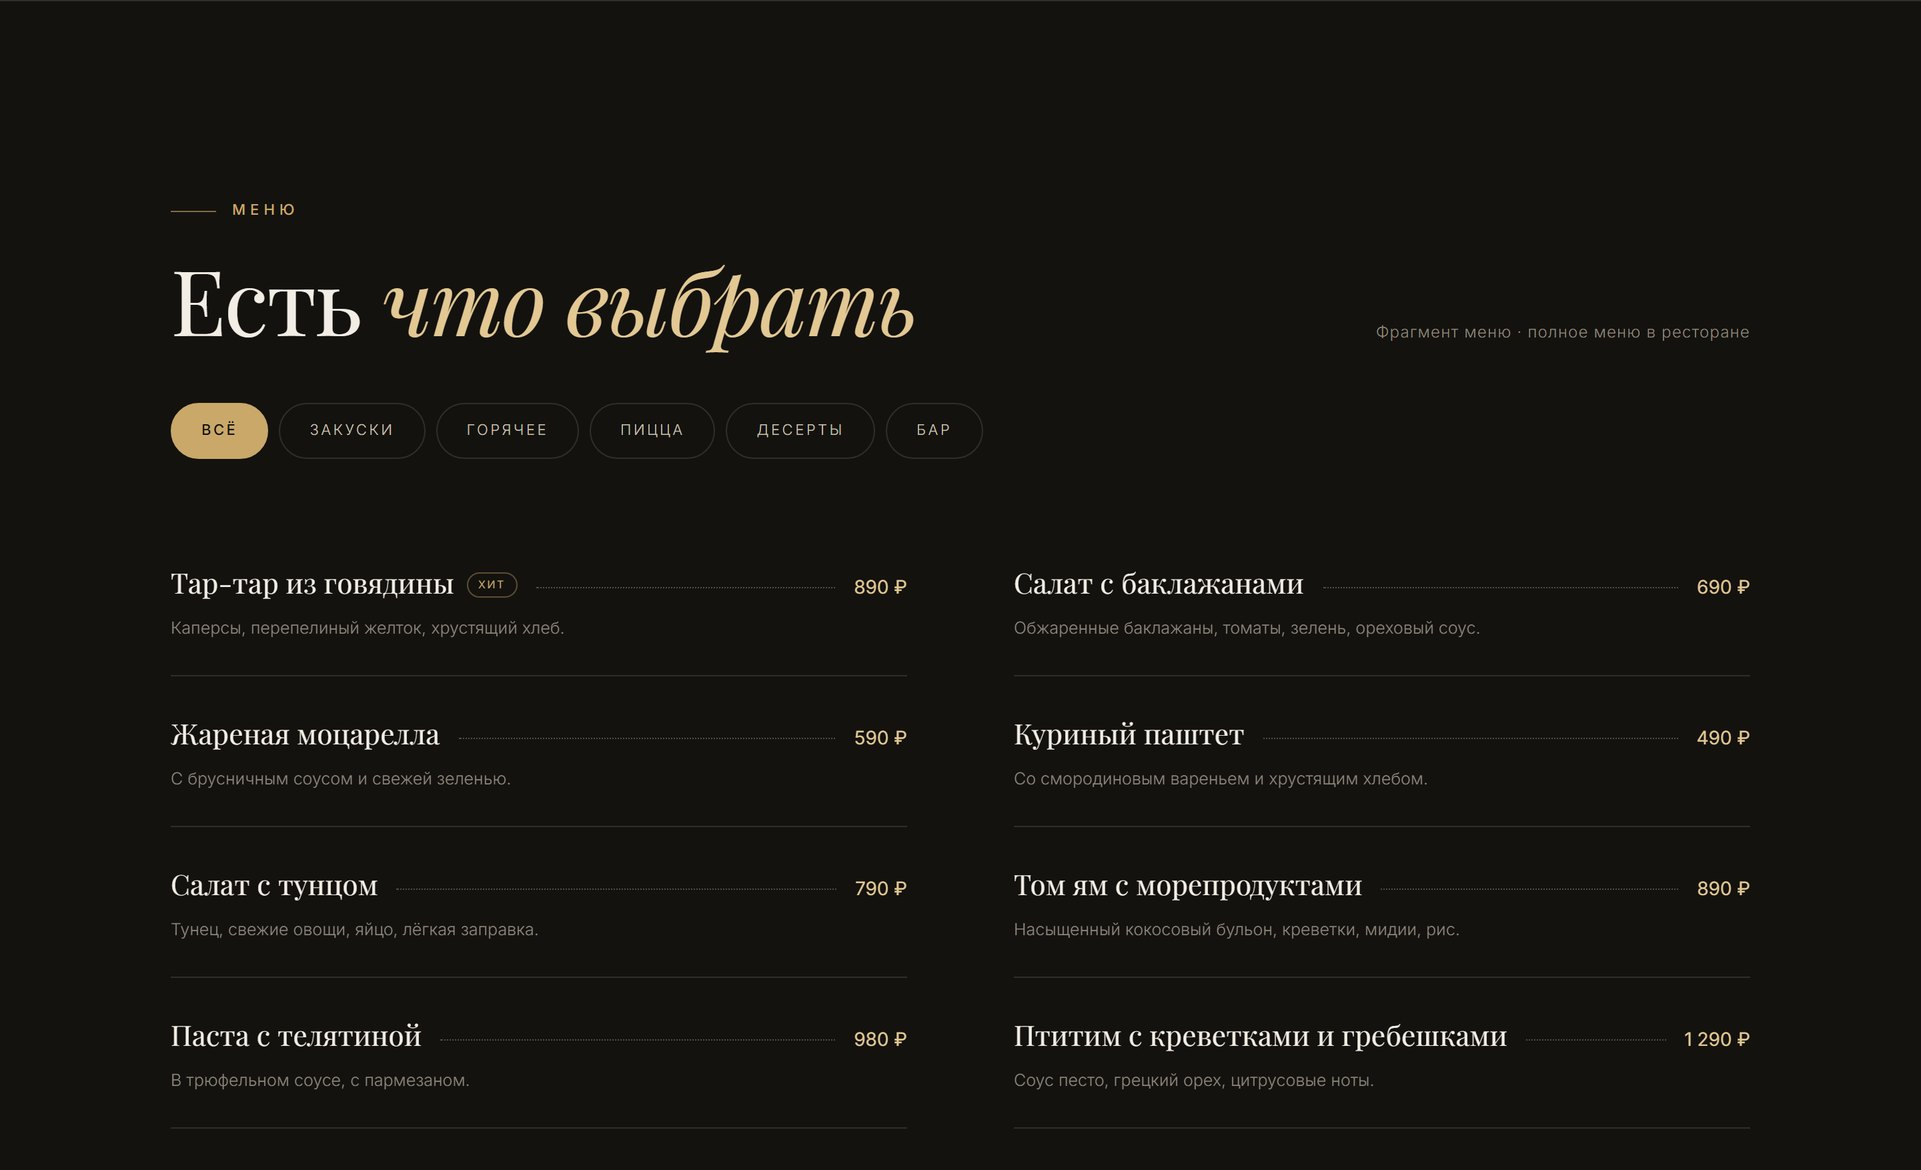
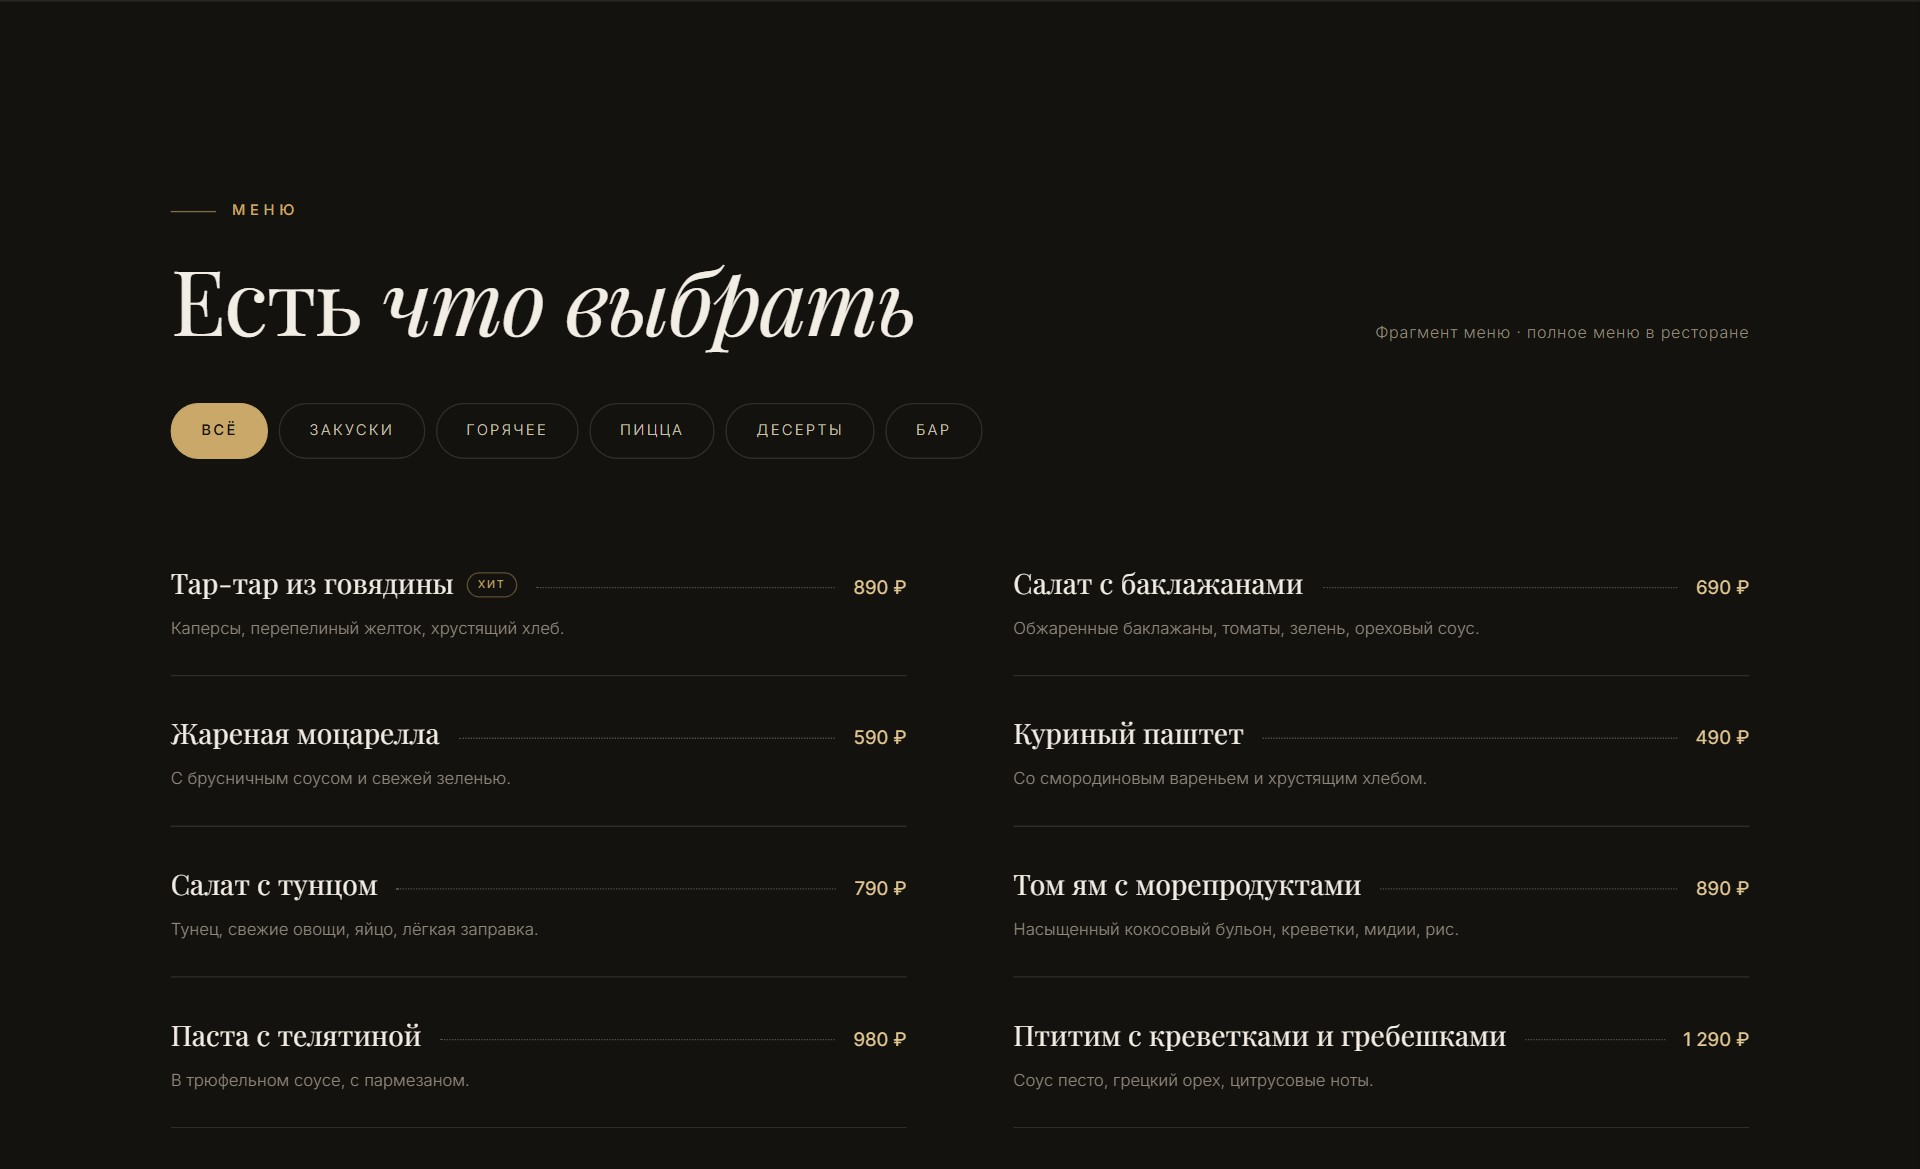
Портфолио: новые заголовки ПЕНЫ и УГЛЯ, без бегущих строк, локальные шрифты

diff --git a/demo/index.html b/demo/index.html
@@ -94,7 +94,7 @@
     line-height:1.02;
     margin:22px 0 0;
   }
-  .section-title em{font-style:italic;color:var(--gold-light)}
+  .section-title em{font-style:italic}
   .section-head{display:flex;justify-content:space-between;align-items:flex-end;gap:40px;flex-wrap:wrap}
   .lead{color:var(--cream-dim);font-size:clamp(15px,1.2vw,17px);max-width:52ch}
 
@@ -184,7 +184,7 @@
     font-size:clamp(46px,8.2vw,112px);
     line-height:.96;letter-spacing:-.025em;max-width:13ch;
   }
-  .hero h1 em{font-style:italic;color:var(--gold-light)}
+  .hero h1 em{font-style:italic}
   .hero-sub{
     margin:30px 0 38px;max-width:44ch;
     color:var(--cream-dim);font-size:clamp(15px,1.25vw,17px);line-height:1.65;
@@ -219,21 +219,20 @@
   .fact strong{font-family:var(--serif);font-size:17px;font-weight:400;color:var(--cream);letter-spacing:.02em}
   .fact strong em{color:var(--gold-light);font-style:normal}
 
-  /* ---------- marquee ---------- */
+  /* ---------- features strip ---------- */
   .marquee{
     border-top:1px solid var(--line);border-bottom:1px solid var(--line);
-    overflow:hidden;padding:22px 0;background:var(--bg-2);
+    padding:18px 0;background:var(--bg-2);
   }
-  .marquee-track{display:flex;width:max-content;animation:marquee 38s linear infinite}
-  .marquee:hover .marquee-track{animation-play-state:paused}
-  @keyframes marquee{to{transform:translateX(-50%)}}
-  .marquee-group{display:flex;align-items:center;flex:none}
+  .marquee-track{display:flex;justify-content:center;padding:0 24px}
+  .marquee-group{display:flex;align-items:center;justify-content:center;flex-wrap:wrap;row-gap:10px}
   .marquee-item{
-    display:flex;align-items:center;gap:38px;padding-right:38px;
+    display:flex;align-items:center;gap:22px;padding-right:22px;
     font-size:12px;letter-spacing:.28em;text-transform:uppercase;color:var(--cream-dim);
     white-space:nowrap;
   }
   .marquee-item::after{content:"";width:5px;height:5px;border-radius:50%;background:var(--gold);opacity:.85}
+  .marquee-item:last-child::after{display:none}
 
   /* ---------- about ---------- */
   .about-grid{
@@ -549,6 +548,10 @@
     .hero-cta{gap:10px}
     .hero-cta .btn{padding:14px 22px;font-size:11.5px}
     .hero-facts-inner{grid-template-columns:1fr 1fr;padding-top:20px;padding-bottom:20px}
+    .marquee{padding:14px 0}
+    .marquee-item{font-size:10px;letter-spacing:.2em;gap:16px;padding-right:16px}
+    .marquee-item:nth-child(n+5){display:none}
+    .marquee-item:nth-child(4)::after{display:none}
     .fact{padding:0 14px}
     .fact strong{font-size:14.5px}
     .stats{margin-top:48px}
@@ -646,19 +649,9 @@
   </div>
 </section>
 
-<!-- ================= MARQUEE ================= -->
+<!-- ================= FEATURES STRIP ================= -->
 <div class="marquee" aria-hidden="true">
   <div class="marquee-track">
-    <div class="marquee-group">
-      <span class="marquee-item">Летняя веранда</span>
-      <span class="marquee-item">Живая музыка</span>
-      <span class="marquee-item">Кальян</span>
-      <span class="marquee-item">Завтраки</span>
-      <span class="marquee-item">Доставка</span>
-      <span class="marquee-item">Парковка</span>
-      <span class="marquee-item">Wi-Fi</span>
-      <span class="marquee-item">Можно с собакой</span>
-    </div>
     <div class="marquee-group">
       <span class="marquee-item">Летняя веранда</span>
       <span class="marquee-item">Живая музыка</span>

diff --git a/index.html b/index.html
@@ -449,7 +449,7 @@
             <span class="browser-dots"><i></i><i></i><i></i></span>
             <span class="browser-url">terra-concept</span>
           </div>
-          <img src="img/01-hero.jpg" width="1921" height="1246" alt="Главный экран концепта сайта ресторана «Терра»: тёмная фотография зала, заголовок «Вкус, атмосфера и живая музыка»" fetchpriority="high">
+          <img src="img/01-hero.jpg" width="1920" height="1245" alt="Главный экран концепта сайта ресторана «Терра»: тёмная фотография зала, заголовок «Вкус, атмосфера и живая музыка»" fetchpriority="high">
         </div>
         <figcaption>
           <span><b>«Терра»</b> · Краснодар — концепт сайта</span>
@@ -485,11 +485,11 @@
       <div class="case-shots reveal">
         <div class="shots-stack">
           <figure class="shot">
-            <img src="img/02-menu.jpg" width="1921" height="1170" loading="lazy" alt="Страница меню концепта: 23 позиции с ценами, разделы кухни и напитков">
+            <img src="img/02-menu.jpg" width="1920" height="1169" loading="lazy" alt="Страница меню концепта: 23 позиции с ценами, разделы кухни и напитков">
             <figcaption>Меню · 23 позиции</figcaption>
           </figure>
           <figure class="shot">
-            <img src="img/03-booking.jpg" width="1921" height="800" loading="lazy" alt="Страница бронирования концепта: форма с датой, временем, количеством гостей и телефоном">
+            <img src="img/03-booking.jpg" width="1920" height="800" loading="lazy" alt="Страница бронирования концепта: форма с датой, временем, количеством гостей и телефоном">
             <figcaption>Бронирование · форма с валидацией</figcaption>
           </figure>
         </div>
